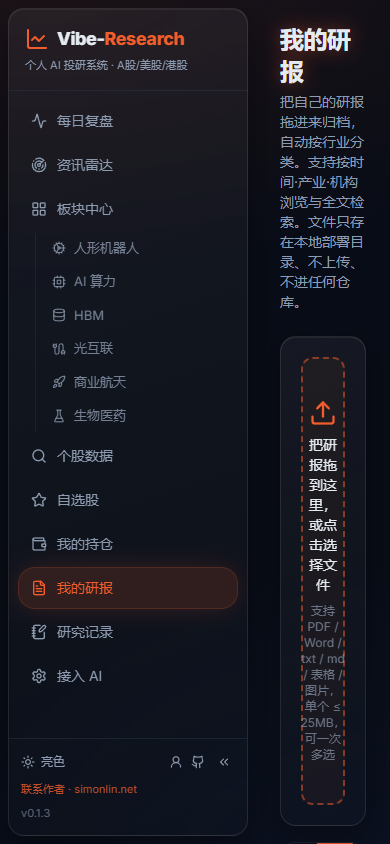
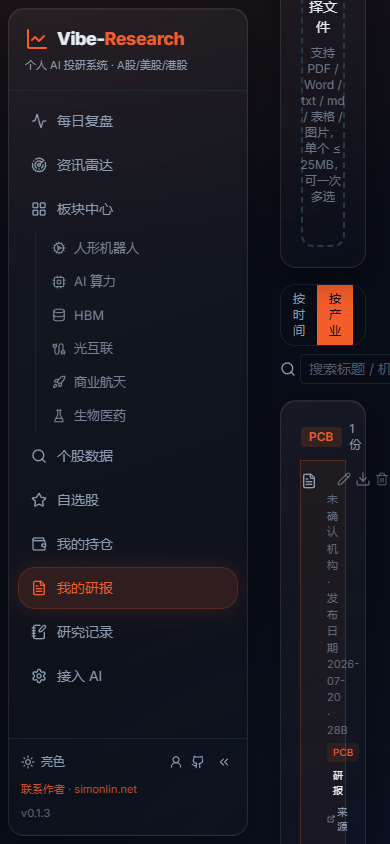
test: tighten sector research browser acceptance evidence

Changed region(s): [[0.7077, 0.0, 1.0, 1.0], [0.9231, 0.5545, 1.0, 0.5853], [0.7077, 0.4005, 0.7385, 0.4621]]

diff --git a/docs/screenshots/sector-research-accept/README.md b/docs/screenshots/sector-research-accept/README.md
@@ -1,2 +1,31 @@
+# Sector research browser acceptance
+
+Date: 2026-07-23T18:30:30.745Z
+Browser: local chromium-1228
 Isolated VR_DATA_DIR used: yes
 Isolated VR_REPORTS_DIR used: yes
+
+## Covered
+- 板块中心进入 PCB
+- 六个 Tag
+- 动态数据展开与刷新
+- 研报行业/公司/全部发现
+- 自定义 days
+- 截断数量提示
+- 缓存导入与导入错误反馈
+- 我的研报定位
+- 按时间/产业/机构分类
+- 元数据清空
+- 前进后退与刷新恢复
+- 桌面 1440px 与移动 390px 无整体横向滚动
+
+## Screenshots
+- desktop-pcb-overview.png
+- desktop-report-discovery.png
+- desktop-my-reports.png
+- mobile-pcb-overview-390.png
+- mobile-report-discovery-390.png
+- mobile-my-reports-390.png
+
+## Errors
+- none
